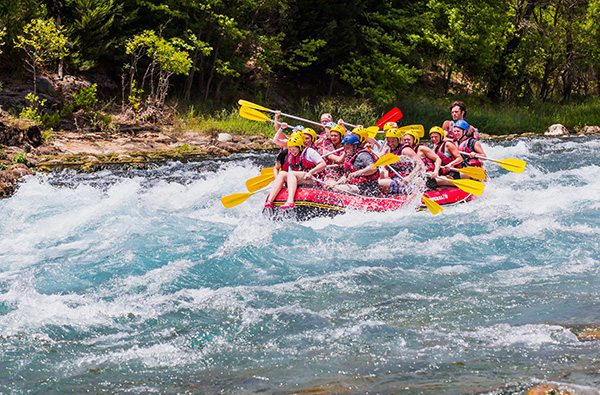
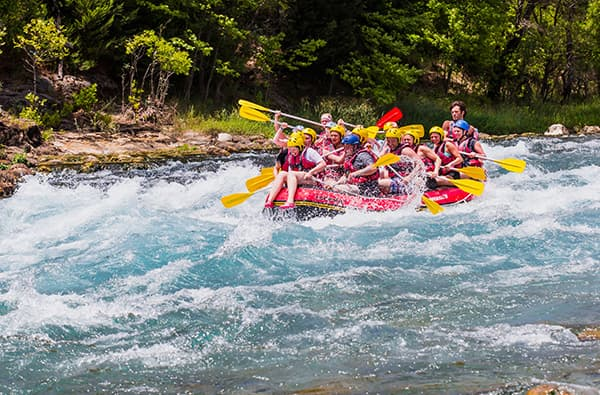
image_update

diff --git a/wwr/index.html b/wwr/index.html
@@ -53,7 +53,7 @@
             <div class="grid-container">
                 <div class="grid-item">
                     <figure>
-                        <img src="images/rafting600.jpg" alt="Exciting Rafting Adventure">
+                        <img src="images/rafting11.jpg" alt="Exciting Rafting Adventure">
                         <figcaption>
                             <h3>Exciting Adventures</h3>
                             <p>Experience thrilling white water rafting adventures that are perfect for all skill levels. Join us for a day filled with excitement and nature!</p>
@@ -62,7 +62,7 @@
                 </div>
                 <div class="grid-item">
                     <figure>
-                        <img src="images/rafting601.jpg" alt="Safety First">
+                        <img src="images/rafting12.jpg" alt="Safety First">
                         <figcaption>
                             <h3>Safety First</h3>
                             <p>Your safety is our top priority. Our certified guides ensure that every trip is safe, fun, and memorable. We provide all necessary gear and training.</p>
